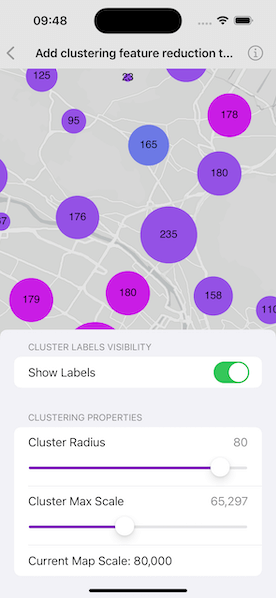
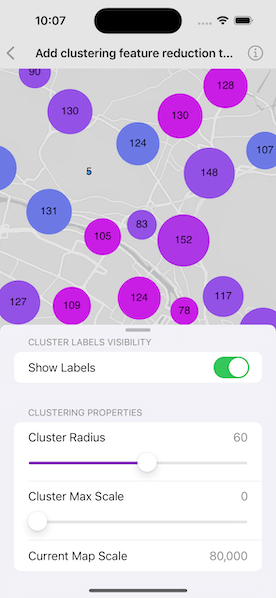
Update screenshot.

diff --git a/Shared/Samples/Add clustering feature reduction to a point feature layer/AddClusteringFeatureReductionToAPointFeatureLayerView.swift b/Shared/Samples/Add clustering feature reduction to a point feature layer/AddClusteringFeatureReductionToAPointFeatureLayerView.swift
@@ -61,7 +61,7 @@ struct AddClusteringFeatureReductionToAPointFeatureLayerView: View {
                         Button("Settings") {
                             showsSettings = true
                         }
-                        .sheet(isPresented: $showsSettings, detents: [.medium]) {
+                        .sheet(isPresented: $showsSettings, detents: [.medium], dragIndicatorVisibility: .visible) {
                             SettingsView(model: model, mapViewScale: mapViewScale)
                         }
                     }
